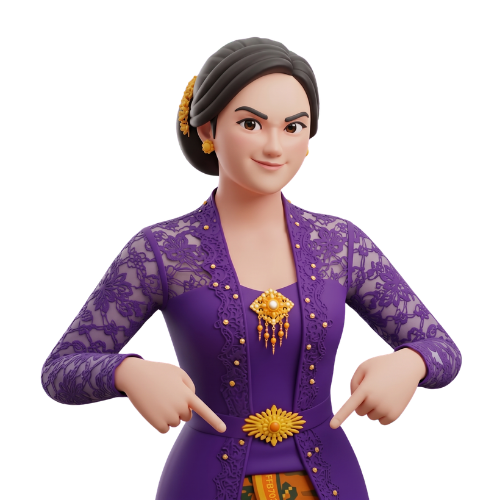
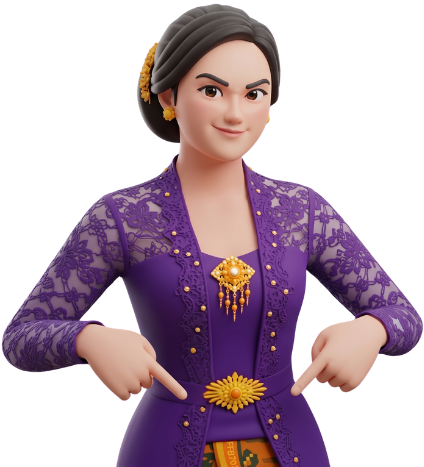
feat: update priveiw

diff --git a/app/components/interactiveMaps.tsx b/app/components/interactiveMaps.tsx
@@ -53,10 +53,18 @@ const mapLevels = [
   }
 ];
 
-export default function InteractiveMap() {
+interface InteractiveMapProps {
+  onSelectRoute?: (route: string) => void;
+}
+
+export default function InteractiveMap({ onSelectRoute }: InteractiveMapProps) {
   const router = useRouter();
-  // State sekarang menyimpan number
-  const [activeLevel, setActiveLevel] = useState<number | null>(null);
+ // Pisahkan state hover dan click agar yang diklik tetap menyala (sticky)
+  const [hoveredLevel, setHoveredLevel] = useState<number | null>(null);
+  const [selectedLevel, setSelectedLevel] = useState<number | null>(null);
+
+  // Level yang aktif adalah yang sedang di-hover, atau fallback ke yang sedang dipilih
+  const activeLevel = hoveredLevel !== null ? hoveredLevel : selectedLevel;
 
   return (
     <div className="relative w-full max-w-md mx-auto flex flex-col items-center">
@@ -81,6 +89,7 @@ export default function InteractiveMap() {
         {mapLevels.map((level) => {
           const isBlank = level.id === 0;
           const isActive = activeLevel === level.id;
+          const isSelected = selectedLevel === level.id;
 
           return (
             // Gunakan tag <g> (group) untuk membungkus path dan text
@@ -88,20 +97,24 @@ export default function InteractiveMap() {
               <path
                 d={level.pathD}
                 onClick={() => {
-                  if (!isBlank) setActiveLevel(level.id);
+                  if (!isBlank) {
+                    setSelectedLevel(level.id); // Buat sticky
+                    if (onSelectRoute) {
+                      onSelectRoute(level.route); // Kirim rute ke IntroPage
+                    }
+                  }
                 }}
                 onMouseEnter={() => {
-                  if (!isBlank) setActiveLevel(level.id);
+                  if (!isBlank) setHoveredLevel(level.id);
                 }}
                 onMouseLeave={() => {
-                  if (!isBlank) setActiveLevel(null);
+                  if (!isBlank) setHoveredLevel(null);
                 }}
                 className={`
                   transition-all duration-300
                   ${isBlank 
-                    // pointer-events-none secara mutlak mematikan hover/klik pada blank spot
                     ? "fill-[#D8B4E2] stroke-white stroke-2 opacity-60 pointer-events-none" 
-                    : isActive 
+                    : isActive || isSelected // Menyala jika di-hover ATAU sedang dipilih
                       ? "cursor-pointer fill-[#5A189A] stroke-[#FFB703] stroke-[4px] drop-shadow-[0_0_15px_rgba(255,183,3,0.8)]" 
                       : "cursor-pointer fill-[#D8B4E2] stroke-white stroke-2 opacity-80 hover:opacity-100"
                   }

diff --git a/data/introSteps.ts b/data/introSteps.ts
@@ -5,6 +5,8 @@ export type IntroStep = {
   intanPose: string; // path gambar
   bottomComponent: "scroll" | "map";
   buttonText: string;
+  itemsContainerClass: string;
+  imageScale: string;
 };
 
 export const introSteps: IntroStep[] = [
@@ -12,9 +14,11 @@ export const introSteps: IntroStep[] = [
     id: 1,
     textTop: "Hi.. {nama}!! Kenalkan, aku Intan. Kalian tahu tidak? Di balik kabut tebal yang menyelimuti puncak Gunung Lawu dan indahnya air Telaga Sarangan, tersimpan sebuah rahasia kuno yang sudah terkunci selama ratusan tahun.",
     textBottom: "Tadi pagi, aku menemukan gulungan tua ini di sebuah goa tersembunyi. Isinya bukan peta biasa, melainkan petunjuk menuju harta karun ilmu yang kini mulai terlupakan: Aksara Jawa. Cobalah untuk membuka gulungan tersebut!!",
-    intanPose: "/src/girlPoses/cewek_lambai_nobg.png", // Sesuaikan nama file nanti
+    intanPose: "/src/girlPoses/cewek_lambai_nobg_edited.png", // Sesuaikan nama file nanti
     bottomComponent: "scroll",
-    buttonText: "BUKA"
+    buttonText: "BUKA",
+    itemsContainerClass: "items-end",
+    imageScale: "scale-125"
   },
   {
     id: 2,
@@ -22,7 +26,9 @@ export const introSteps: IntroStep[] = [
     textBottom: "Gerbang dimensi menuju masa lalu hanya bisa dibuka oleh orang-orang terpilih yang memiliki ketelitian dan keberanian tinggi. Apakah itu kalian?",
     intanPose: "/src/girlPoses/cewek_khawatir_nobg.png",
     bottomComponent: "scroll",
-    buttonText: "YAA... ITU SAYA"
+    buttonText: "YAA... ITU SAYA",
+    itemsContainerClass: "items-start",
+    imageScale: "scale-175"
   },
   {
     id: 3,
@@ -30,7 +36,9 @@ export const introSteps: IntroStep[] = [
     textBottom: "Di setiap tempat, kalian harus menyelesaikan tantangan Escape Room yang rumit. Ingat, setiap Aksara yang kalian temukan adalah kunci! Kumpulkan kodenya, dan kita akan bertemu di puncak Gunung Lawu untuk membuka gerbang terakhir.",
     intanPose: "/src/girlPoses/cewek_heroic_nobg.png",
     bottomComponent: "map",
-    buttonText: "GASS.."
+    buttonText: "GASS..",
+    itemsContainerClass: "items-end",
+    imageScale: "scale-175"
   },
   {
     id: 4,
@@ -38,6 +46,8 @@ export const introSteps: IntroStep[] = [
     textBottom: "Jangan sampai salah langkah, atau kalian akan terjebak di dalam labirin waktu selamanya! Ayo, petualangan dimulai sekarang!",
     intanPose: "/src/girlPoses/cewek_nantang_nobg.png",
     bottomComponent: "map",
-    buttonText: "MULAI PETUALANGAN"
+    buttonText: "MULAI PETUALANGAN",
+    itemsContainerClass: "items-start",
+    imageScale: "scale-140"
   }
 ];

diff --git a/app/intro/page.tsx b/app/intro/page.tsx
@@ -12,6 +12,8 @@ export default function IntroPage() {
   const [playerName, setPlayerName] = useState("User");
   const [isFogging, setIsFogging] = useState(false);
 
+  const [targetRoute, setTargetRoute] = useState("/level/1");
+
   const currentData = introSteps[stepIndex];
 
   useEffect(() => {
@@ -23,7 +25,7 @@ export default function IntroPage() {
 
   const handleNext = () => {
     if (stepIndex === introSteps.length - 1) {
-      router.push("/level/1");
+      router.push(targetRoute); // Gunakan targetRoute dinamis, bukan hardcode "/level/1"
       return;
     }
 
@@ -65,19 +67,19 @@ export default function IntroPage() {
             {formatText(currentData.textTop)}
           </p>
           
-          <div className="flex items-end gap-4">
+          <div className={`flex ${currentData.itemsContainerClass} gap-4`}>
             <p className="flex-1 text-sm font-bold leading-relaxed">
                 {formatText(currentData.textBottom)}
             </p>
             
             {/* WADAH DIPERBESAR: w-24 menjadi w-32 atau w-40 */}
-            <div className="relative flex-shrink-0 w-32 h-40 sm:w-40 sm:h-48">
+            <div className="relative flex-shrink-0 w-32 h-40 sm:w-40 sm:h-48 mb-8">
                 <Image 
                 src={currentData.intanPose} 
                 alt="Intan" 
                 fill 
                 // HAPUS scale, gunakan object-contain dan object-bottom/object-top
-                className="object-contain object-top" 
+                className={`object-contain ${currentData.imageScale}`} 
                 />
             </div>
             </div>
@@ -91,7 +93,7 @@ export default function IntroPage() {
              </div>
           ) : (
              <div className="relative w-full max-w-[280px]"> 
-               <InteractiveMap /> 
+               <InteractiveMap onSelectRoute={(route) => setTargetRoute(route)} /> 
              </div>
           )}
         </div>

diff --git a/app/level/[id]/page.tsx b/app/level/[id]/page.tsx
@@ -1,0 +1,25 @@
+"use client";
+
+import { useRouter } from "next/navigation";
+import { use } from "react";
+
+export default function LevelPage({ params }: { params: Promise<{ id: string }> }) {
+  const router = useRouter();
+  // Unwrap params menggunakan React.use() (Standar Next.js App Router terbaru)
+  const resolvedParams = use(params);
+  const levelId = resolvedParams.id;
+
+  return (
+    <main className="flex flex-col items-center justify-center min-h-[100dvh] bg-white p-6">
+      <h1 className="text-4xl font-black text-[#3D2B1F] mb-4 text-center">
+        Halaman Level {levelId}
+      </h1>
+      <button
+        onClick={() => router.push("/")}
+        className="w-full max-w-sm bg-[#5A189A] hover:bg-[#4a1380] text-white font-black tracking-widest text-lg rounded-xl py-4 transition-all active:scale-95 shadow-[0_10px_20px_rgba(90,24,154,0.4)]"
+      >
+        KEMBALI KE MENU UTAMA
+      </button>
+    </main>
+  );
+}
